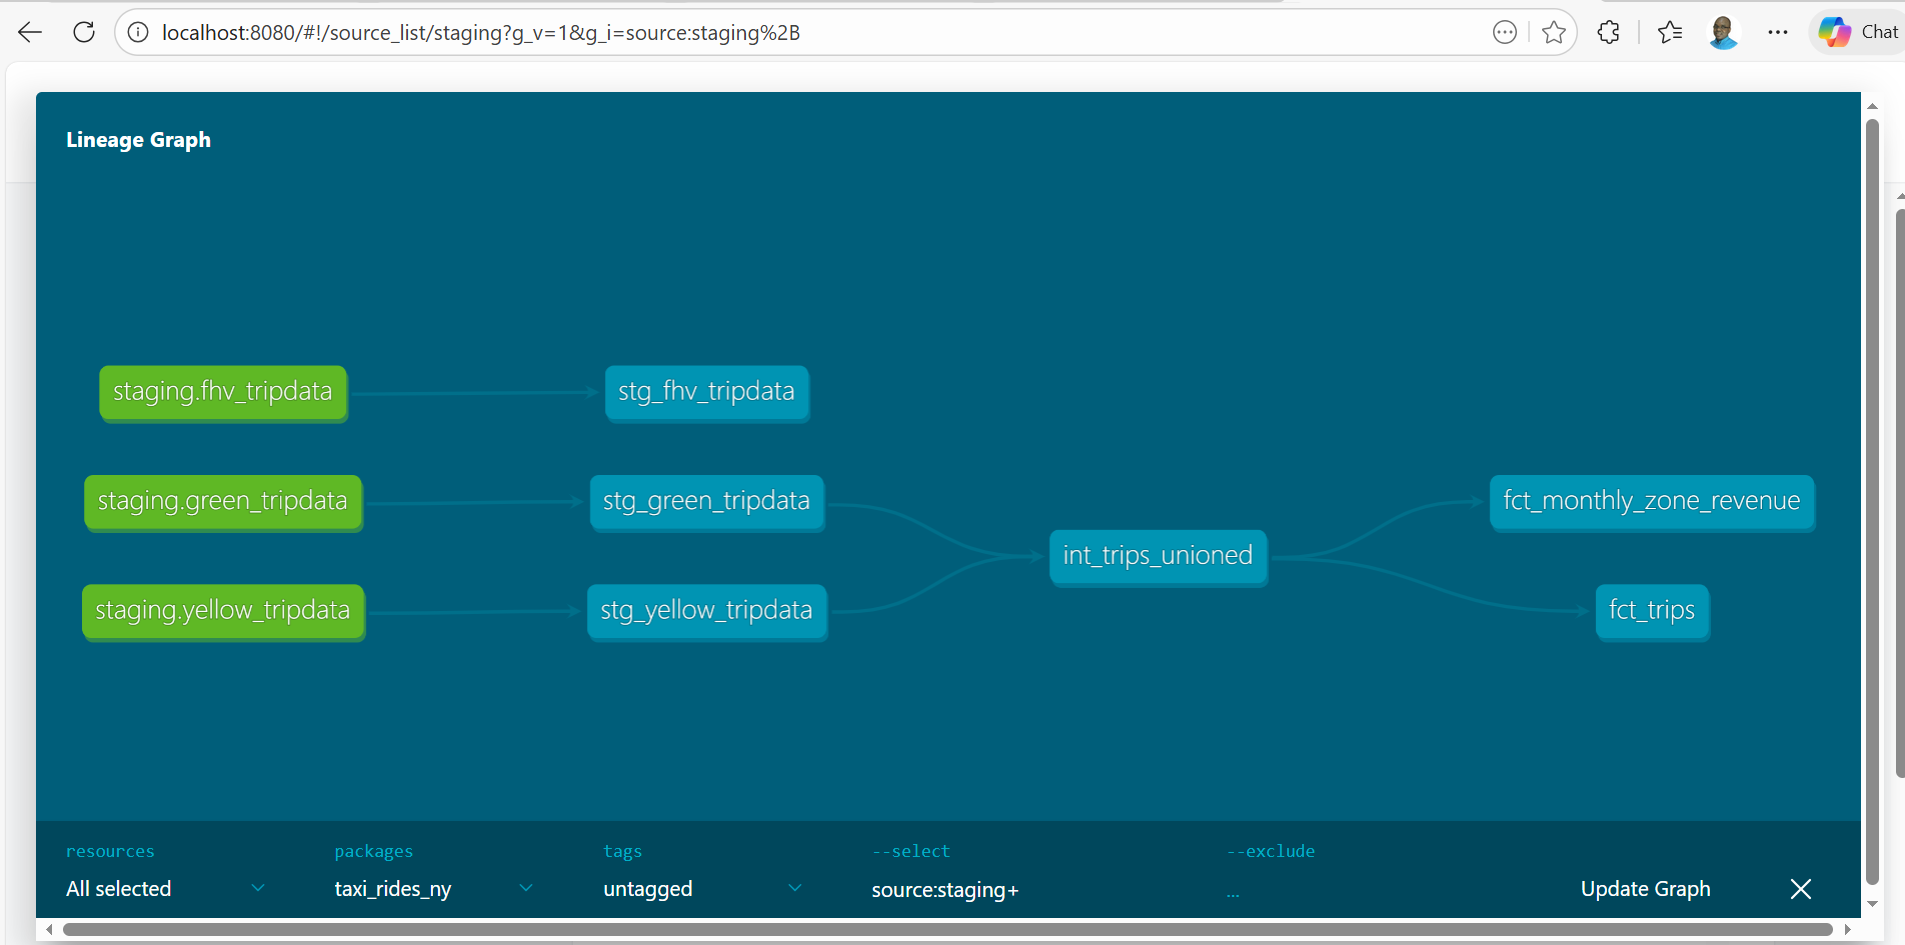
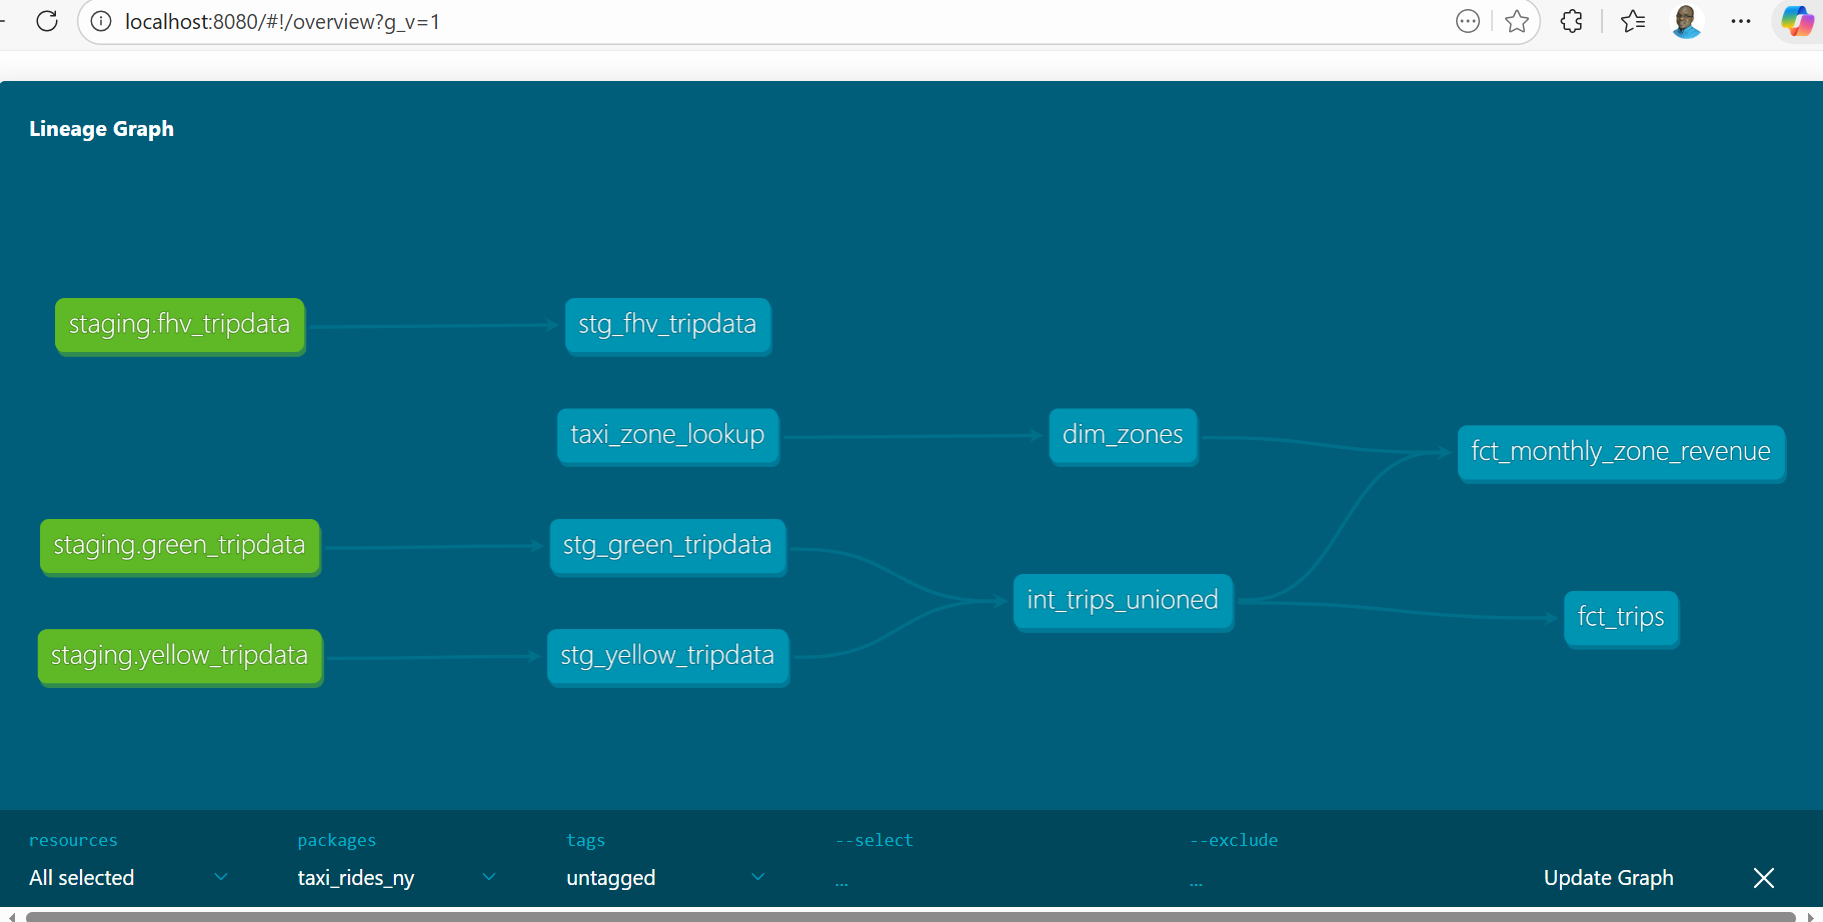
Update README - dbt project

diff --git a/README.md b/README.md
@@ -1,6 +1,6 @@
-# Analytics Engineering with dbt + DuckDB
+## Analytics Engineering with dbt + DuckDB
 
-## 📌 Project Overview
+### 📌 Project Overview
 
 This project demonstrates a complete **Analytics Engineering workflow** using:
 
@@ -14,7 +14,7 @@ The goal is to transform raw taxi trip data into analytics-ready models using be
 
 ---
 
-# Project Architecture
+## Project Architecture
 
 Raw Data → Staging Models → Core Models (Facts & Dimensions) → Analytics Queries
 
@@ -30,9 +30,9 @@ We follow the layered approach:
 
 ---
 
-# Setup Instructions
+## Setup Instructions
 
-## 1. Clone Repository
+### 1. Clone Repository
 
 ```bash
 git clone https://github.com/biggymuticha/dbt-analytics-engineering.git
@@ -41,7 +41,7 @@ cd dbt-analytics-engineering
 
 ---
 
-## 2. Create Virtual Environment
+### 2. Create Virtual Environment
 
 ```bash
 python -m venv env
@@ -51,7 +51,7 @@ env\Scripts\activate      # Windows
 
 ---
 
-## 3. Install Dependencies
+### 3. Install Dependencies
 
 ```bash
 pip install dbt-duckdb
@@ -60,7 +60,7 @@ pip install duckdb
 
 ---
 
-## 4. Run dbt Seed (Load Lookup Data)
+### 4. Run dbt Seed (Load Lookup Data)
 Download csv with zone lookup data from https://github.com/DataTalksClub/nyc-tlc-data/releases/download/misc/taxi_zone_lookup.csv
 
 Place it in the *seeds/* folder.
@@ -79,7 +79,7 @@ This loads the **zone lookup file** into DuckDB.
 
 ---
 
-## 5. Build All Models
+### 5. Build All Models
 
 ```bash
 dbt build
@@ -200,9 +200,11 @@ Open the browser → View Lineage Graph.
 Example Flow:
 
 ```
-source → stg_green_tripdata → fact_green_taxi_trips
-                      ↘
-                       dim_zones
+source → tax_zone_lookup    →        dim_zones
+                                                 ↘
+source → stg_green_tripdata → int-trips-unioned → fct-monthly-zone-revenue
+                      
+                       
 ```
 
 ### Value addition:
